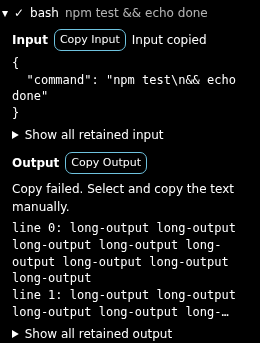
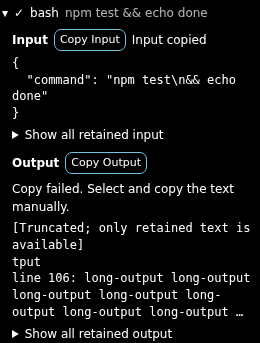
fix(sidebar): preserve literal JSON and recent tool output

Changed region(s): [[0.0308, 0.6414, 0.9538, 0.9329]]

diff --git a/src/test/toolPresentation.test.ts b/src/test/toolPresentation.test.ts
@@ -22,6 +22,48 @@ test("tool summaries use original verified arguments and neutral bounded fallbac
   }
 });
 
+test("ordinary tool output preserves JSON that matches serialized result shapes", () => {
+  const vscode = installVscodeMock();
+  try {
+    const { extractToolText } = require("../sidebarHelpers") as typeof import("../sidebarHelpers");
+    for (const value of [
+      { content: [{ type: "text", text: "file contents" }] },
+      { output: "command output", exit_code: 0, wall_time_seconds: 1, truncated: false },
+    ]) {
+      const text = JSON.stringify(value);
+      for (const toolName of [undefined, "read", "bash", "edit", "custom"]) {
+        assert.equal(extractToolText({ content: [{ type: "text", text }] }, 8000, toolName), text);
+      }
+    }
+  } finally {
+    vscode.restore();
+  }
+});
+
+test("long cumulative tool output retains new text and the final failure within the limit", () => {
+  const vscode = installVscodeMock();
+  try {
+    const { extractToolText, boundToolText } = require("../sidebarHelpers") as typeof import("../sidebarHelpers");
+    const prefix = "old output\n".repeat(1000);
+    const content = (text: string) => ({ content: [{ type: "text", text }] });
+    const partial = extractToolText(content(prefix + "latest partial line"), 8000);
+    const final = extractToolText(content(prefix + "latest partial line\nFAIL: final test failure"), 8000);
+    assert.ok(partial.endsWith("latest partial line"));
+    assert.ok(final.endsWith("FAIL: final test failure"));
+    assert.notEqual(partial, final);
+    assert.equal(partial.length, 8000);
+    assert.equal(final.length, 8000);
+    assert.match(final, /Truncated; only retained text/);
+    for (const limit of [0, 1, 40, 44, 45, 8000]) {
+      assert.equal(extractToolText(content(prefix), limit).length, limit);
+    }
+    assert.ok(extractToolText(prefix + "plain tail", 8000).endsWith("plain tail"));
+    assert.ok(boundToolText(prefix + "input end", 8000).startsWith("old output"), "input keeps its leading fields");
+  } finally {
+    vscode.restore();
+  }
+});
+
 test("tool text supports Pi content blocks and one serialized envelope, not recursive parsing", () => {
   const vscode = installVscodeMock();
   try {
@@ -36,10 +78,10 @@ test("tool text supports Pi content blocks and one serialized envelope, not recu
     ]) {
       assert.equal(extractToolText(content(text), 8000), text);
       assert.equal(extractToolText(text, 8000), text);
-      assert.equal(extractToolText(content(JSON.stringify(content(text))), 8000), text);
+      assert.equal(extractToolText(content(JSON.stringify(content(text))), 8000, "codemode"), text);
     }
     const nested = content(JSON.stringify(content("deep")));
-    assert.equal(extractToolText(content(JSON.stringify(nested)), 8000), nested.content[0].text);
+    assert.equal(extractToolText(content(JSON.stringify(nested)), 8000, "codemode"), nested.content[0].text);
     for (const value of [{ unknown: "value" }, { content: [{ type: "image", data: "opaque" }] }]) {
       assert.equal(extractToolText(value, 8000), JSON.stringify(value, null, 2));
     }
@@ -49,6 +91,7 @@ test("tool text supports Pi content blocks and one serialized envelope, not recu
       extractToolText(
         content(JSON.stringify({ output: "bash\\noutput", exit_code: 0, wall_time_seconds: 1, truncated: false })),
         8000,
+        "codemode",
       ),
       "bash\\noutput",
     );
@@ -60,6 +103,7 @@ test("tool text supports Pi content blocks and one serialized envelope, not recu
       extractToolText(
         content(JSON.stringify({ output: "partial", exit_code: 0, wall_time_seconds: 1, truncated: true })),
         8000,
+        "codemode",
       ),
       /Tool result truncated/,
     );

diff --git a/src/sidebarHelpers.ts b/src/sidebarHelpers.ts
@@ -258,7 +258,7 @@ export function convertPiMessages(values: readonly unknown[], options: ConvertPi
 }
 
 // Pi tool results use content/text blocks. Unknown and mixed payloads stay JSON.
-export function extractToolText(value: unknown, maxCharacters: number): string {
+export function extractToolText(value: unknown, maxCharacters: number, toolName?: string): string {
   let text: string;
   if (typeof value === "string") text = value;
   else if (
@@ -268,6 +268,7 @@ export function extractToolText(value: unknown, maxCharacters: number): string {
   )
     text = value.content
       .map((part) => {
+        if (toolName !== "codemode") return part.text;
         // Codemode can print a serialized tool-result envelope. Decode exactly one known layer.
         try {
           const wrapped: unknown = JSON.parse(part.text);
@@ -303,7 +304,10 @@ export function extractToolText(value: unknown, maxCharacters: number): string {
     value.details.truncation.truncated === true
   )
     text += "\n[Tool result truncated; only retained text is available]";
-  return boundToolText(text, maxCharacters);
+  if (text.length <= maxCharacters) return text;
+  const marker = "[Truncated; only retained text is available]\n".slice(0, maxCharacters);
+  const retainedCharacters = maxCharacters - marker.length;
+  return marker + (retainedCharacters > 0 ? text.slice(-retainedCharacters) : "");
 }
 
 export function boundToolText(text: string, maxCharacters: number): string {

diff --git a/src/sidebar.ts b/src/sidebar.ts
@@ -1368,15 +1368,17 @@ class PiCodeChatViewProvider implements vscode.WebviewViewProvider, vscode.Dispo
       this.status = `Running ${stringValue(event.toolName) ?? "tool"}…`;
     } else if (event.type === "tool_execution_update") {
       const id = stringValue(event.toolCallId);
-      if (id) {
-        this.updateTool(id, { output: extractToolText(event.partialResult, maxToolOutputCharacters) });
+      const tool = this.tools.find((activity) => activity.id === id);
+      if (tool) {
+        this.updateTool(tool.id, { output: extractToolText(event.partialResult, maxToolOutputCharacters, tool.name) });
       }
     } else if (event.type === "tool_execution_end") {
       const id = stringValue(event.toolCallId);
-      if (id) {
-        this.updateTool(id, {
+      const tool = this.tools.find((activity) => activity.id === id);
+      if (tool) {
+        this.updateTool(tool.id, {
           status: event.isError ? "error" : "success",
-          output: extractToolText(event.result, maxToolOutputCharacters),
+          output: extractToolText(event.result, maxToolOutputCharacters, tool.name),
         });
       }
     } else if (event.type === "compaction_start") {

diff --git a/docs/reviews/tool-activity-ui.md b/docs/reviews/tool-activity-ui.md
@@ -16,13 +16,13 @@ Base: `origin/main` at `8f8b442`. Branch: `narumi/feat/tool-activity-ui`.
 
 The installed Pi tool implementations (`core/tools/read.js`, `edit.js`, `bash.js`) and codemode `extensions/codemode/execute.js` supplied the shape evidence. Repository fixtures are in `scripts/fixtures/tool-activity.cjs`; helper assertions are in `src/test/toolPresentation.test.ts`.
 
-The host still retains at most 30 calls and 8,000 characters per Input/Output value. Summaries use original arguments and have a 240-character limit. Host and known tool truncation have explicit notices. Full-content disclosure and copy expose retained text only.
+The host still retains at most 30 calls and 8,000 characters per Input/Output value. Input keeps its leading text. Output keeps its newest text after a truncation notice. Serialized-envelope decoding applies only to stored `codemode` calls; matching JSON from other tools stays unchanged. Summaries use original arguments and have a 240-character limit. Host and known tool truncation have explicit notices. Full-content disclosure and copy expose retained text only.
 
 Tool rows use status icons with accessible names, tool names, and ellipsized operation summaries. The group has a neutral call count with separate running/failure indicators. Only the failure indicator and failed rows receive error emphasis. Details retain labeled Input and Output, an empty-output state, six-line/600-character previews, full retained text, and copy feedback. Background-task styles are unchanged.
 
 ## Checks
 
-- `npm test`: **373 tests in 45 files passed**, including compilation. Coverage includes missing/long/untrusted arguments, wrapped/unknown/invalid output, literal backslashes, HTML-like text, truncation, status combinations, empty/partial output, disclosure transitions, insertion, removal, reset, and scroll following with full output open.
+- `npm test`: **375 tests in 45 files passed**, including compilation. Coverage includes missing/long/untrusted arguments, wrapped/unknown/invalid output, literal backslashes, HTML-like text, truncation, status combinations, empty/partial output, disclosure transitions, insertion, removal, reset, and scroll following with full output open.
 - `npm run test:native-ui`: passed on Linux, VS Code **1.106.0**, with deterministic RPC responses and no provider calls. Existing attachment, review, Problems, Preview/Apply/Undo, cancellation, and reload checks also passed.
   - Eleven collapsed tool rows measured **264px**, below the 275px acceptance limit.
   - Enter/Space disclosure, visible keyboard focus, bounded previews, full retained output, Input/Output copy, safe text, manual opening through settlement, and reader scroll preservation passed in the actual webview.
@@ -46,6 +46,8 @@ Screenshots are retained in [tool-activity-ui/](tool-activity-ui/). Each pair sh
 | Light | 320px | [List](tool-activity-ui/pi-tools-1.106.0-vscode-light-320.png) | [Details](tool-activity-ui/pi-tools-1.106.0-vscode-light-320-details.png) |
 | High contrast | 640px | [List](tool-activity-ui/pi-tools-1.106.0-vscode-high-contrast-640.png) | [Details](tool-activity-ui/pi-tools-1.106.0-vscode-high-contrast-640-details.png) |
 | High contrast | 320px | [List](tool-activity-ui/pi-tools-1.106.0-vscode-high-contrast-320.png) | [Details](tool-activity-ui/pi-tools-1.106.0-vscode-high-contrast-320-details.png) |
+
+The [PR #62 review ledger](pr-62-review.md) records both reported defects, failing regressions, fixes, and new native checks. The detail screenshots were updated after the output-retention fix.
 
 ## Final review
 

diff --git a/docs/reviews/pr-62-review.md b/docs/reviews/pr-62-review.md
@@ -1,0 +1,35 @@
+# PR #62 review ledger
+
+Target: https://github.com/narumiruna/pi-vscode/pull/62
+
+Reviewed head: `34957736e707806765703c063f2ab189c5aa8eda`. The checkout matches `narumiruna/pi-vscode` and the open PR branch. The complete remote diff matches the local diff. The prior implementation review remains valid for unchanged files. All pages of submitted reviews, inline comments, conversation comments, and review threads were read. The review summary and status comment contain no separate defect or question.
+
+## Items
+
+### R1 — Keep matching JSON unchanged outside codemode
+
+- Source: https://github.com/narumiruna/pi-vscode/pull/62#discussion_r4286589228
+- Severity: P2. In scope. This PR adds result decoding and changes the text shown and copied.
+- Evidence: the new regression at the reviewed head returns `file contents` for the literal output `{"content":[{"type":"text","text":"file contents"}]}`. `extractToolText` has no tool identity, and both host event handlers call it for every tool. The claim is valid for both supported serialized shapes.
+- Outcome: **Already addressed by this revision.** `extractToolText` decodes only when the stored tool name is `codemode`. Both host event handlers use the call ID to find that name. Missing identity and all other tools keep matching JSON unchanged. Unit tests cover both shapes for read, bash, edit, custom, and missing names. Native fixtures verify literal read output and literal bash JSON during update and end events. The existing codemode display check still passes.
+
+### R2 — Keep the newest long output
+
+- Source: https://github.com/narumiruna/pi-vscode/pull/62#discussion_r4286589239
+- Severity: P2. In scope. This PR replaces tail retention with head retention for content-block output.
+- Evidence: a cumulative output longer than 8,000 characters omits `latest partial line` in the new regression. Code inspection confirms that later final failures also fall outside the retained prefix. The original extraction kept the tail of text content. The claim is valid.
+- Outcome: **Already addressed by this revision.** Output now keeps the newest text after a leading truncation notice. Input keeps its leading fields. Unit tests prove that cumulative output changes after the limit and retains the final failure. They also test plain output and small limits. Native full-output and copy checks retain `FINAL: retained command summary` within 8,000 characters.
+
+## Validation
+
+Before the fix, `npm run compile && npx vitest run out/test/toolPresentation.test.js` fails both new regressions. The two existing tests pass.
+
+After the fix:
+
+- Focused helper and sidebar DOM tests: 50 tests pass.
+- `npm test`: 375 tests in 45 files pass.
+- `npm run test:native-ui`: passes on Linux VS Code 1.106.0. This includes the new host update/end checks, tail retention and copy checks, and all prior native UI checks.
+- Biome checks on changed scripts: no errors.
+- `git diff --check`: passes.
+
+No item is deferred or needs clarification. No blocker remains. The review changes do not alter permissions, CSP, execution, host placement, or retention limits. The original untested platform paths remain unverified.
